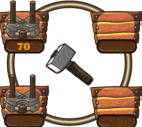
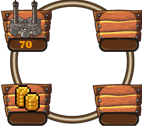
update

diff --git a/js/index.js b/js/index.js
@@ -436,7 +436,8 @@ function checkBuyBuilding(event, activeTileShopping) {
                     y: activeTileShopping.position.y
                 },
                 scale: tower.scale,
-                tower: tower
+                tower: tower,
+                buildingId: (Math.floor(Math.random() * 100) * Math.floor(Math.random() * 100))
             });
             buildings.push(building);
             activeTileShopping.building = building;
@@ -451,8 +452,10 @@ function checkBuyBuilding(event, activeTileShopping) {
 
 function checkUpgradeBuilding(event, activeTileShopping) {
     // detroy building
-    if (event.clientX > activeTileShopping.building.shop.slot3.position.x && event.clientX < activeTileShopping.building.shop.slot3.position.x + activeTileShopping.building.shop.slot3.width &&
-        event.clientY > activeTileShopping.building.shop.slot3.position.y && event.clientY < activeTileShopping.building.shop.slot3.position.y + activeTileShopping.building.shop.slot3.height) {
+    if (event.clientX > activeTileShopping.building.shop.slot3.position.x &&
+            event.clientX < activeTileShopping.building.shop.slot3.position.x + activeTileShopping.building.shop.slot3.width &&
+            event.clientY > activeTileShopping.building.shop.slot3.position.y &&
+            event.clientY < activeTileShopping.building.shop.slot3.position.y + activeTileShopping.building.shop.slot3.height) {
         coins += 30;
         for (let index = 0; index < buildings.length; index++) {
             const building = buildings[index];
@@ -470,5 +473,33 @@ function checkUpgradeBuilding(event, activeTileShopping) {
         activeTileShopping.displayShop = false;
         isShoping = false;
         activeTileShopping = undefined;
+    } else if (event.clientX > activeTileShopping.building.shop.slot1.position.x &&
+        event.clientX < activeTileShopping.building.shop.slot1.position.x + activeTileShopping.building.shop.slot1.width &&
+        event.clientY > activeTileShopping.building.shop.slot1.position.y &&
+        event.clientY < activeTileShopping.building.shop.slot1.position.y + activeTileShopping.building.shop.slot1.height) {
+        for (let index = 0; index < buildings.length; index++) {
+            const building = buildings[index];
+            if (building.buildingId === activeTileShopping.building.buildingId) {
+                buildings.splice(index, 1);
+                coins -= priceTower;
+                const tower = activeTileShopping.building.tower.tw1;
+                const building = new Building({
+                    position: {
+                        x: activeTileShopping.position.x,
+                        y: activeTileShopping.position.y
+                    },
+                    scale: tower.scale,
+                    tower: tower,
+                    buildingId: (Math.floor(Math.random() * 100) * Math.floor(Math.random() * 100))
+                });
+                buildings.push(building);
+                activeTileShopping.building = building;
+                buildings.sort((a, b) => {
+                    return a.position.y - b.position.y
+                });
+                this.closeShopOfLand(activeTileShopping);
+                break;
+            }
+        }
     }
 }

diff --git a/js/classes/Building.js b/js/classes/Building.js
@@ -1,5 +1,5 @@
 class Building extends Sprite {
-    constructor({ position = { x: 0, y: 0 }, scale, tower }) {
+    constructor({ position = { x: 0, y: 0 }, scale, tower, buildingId}) {
         super({
             position,
             imageSrc: tower.imageSrc,
@@ -13,6 +13,7 @@ class Building extends Sprite {
             },
             scale: scale
         });
+        this.buildingId = buildingId;
         this.width = 64;
         this.height = 64;
         this.center = {
@@ -24,7 +25,7 @@ class Building extends Sprite {
         this.target;
         this.elapsedSpawnTime = 0;
         this.damage = tower.damage;
-        this.shop = new Shop({ position: {x: this.position.x - 40 , y: this.position.y - 30 }, imageSrc: 'img/store/shop1.png'});
+        this.shop = new Shop({ position: {x: this.position.x - 40 , y: this.position.y - 30 }, imageSrc: tower.upgradeImg}, tower.tw1, tower.tw2, tower.tw3, tower.tw4);
         this.displayShop = false;
         this.frameShoot = tower.frameShoot;
         this.tower = tower;

diff --git a/js/Buildings.js b/js/Buildings.js
@@ -1,1 +1,6 @@
-const tower1 = {imageSrc: 'img/buildings/tower.png', scale: 0.5, framsMax: 19, offset: {x: 2,y: -20}, radius: 200, damage: 10, frameShoot: 6, image_selected: 'img/buildings/tower_selected.png'};
+
+const tower2 = {imageSrc: 'img/buildings/tower2.png', scale: 0.5, framsMax: 19, offset: {x: 2,y: -20}, radius: 200, damage: 15, frameShoot: 6, image_selected: 'img/buildings/tower2_selected.png'
+    ,tw1: undefined, tw2: undefined, tw3: undefined, tw4: undefined, upgradeImg: 'img/store/shop1.png'};
+
+const tower1 = {imageSrc: 'img/buildings/tower.png', scale: 0.5, framsMax: 19, offset: {x: 2,y: -20}, radius: 200, damage: 10, frameShoot: 6, image_selected: 'img/buildings/tower_selected.png'
+    ,tw1: tower2, tw2: undefined, tw3: undefined, tw4: undefined, upgradeImg: 'img/store/shop2.png'};

diff --git a/js/classes/PlacementTile.js b/js/classes/PlacementTile.js
@@ -4,6 +4,7 @@ class PlacementTile extends Sprite {
             position,
             imageSrc: 'img/buildings/flag.png'
         });
+        this.placementTileId;
         this.position = position;
         this.size = 64;
         this.isOccupied = false;
